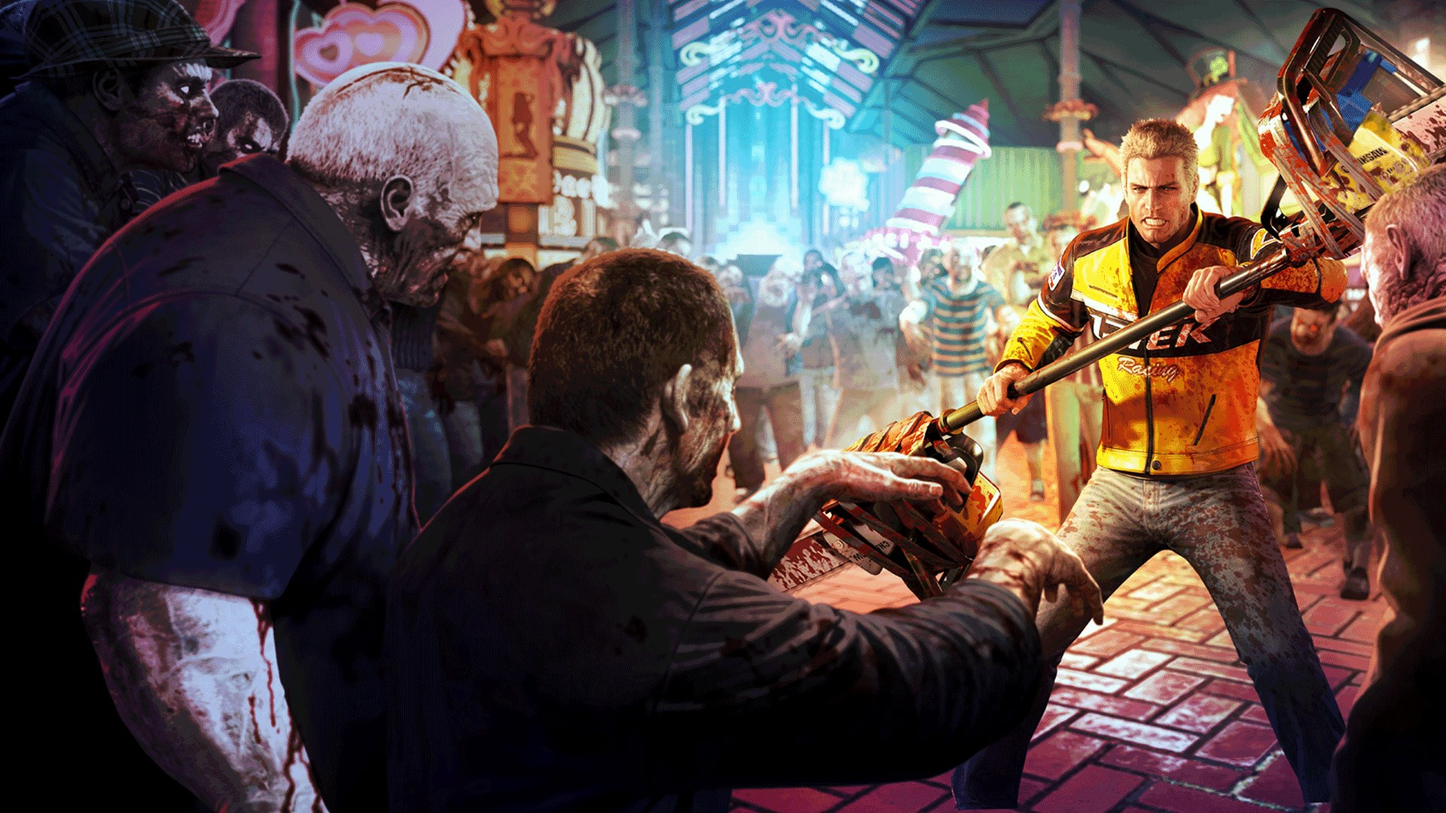
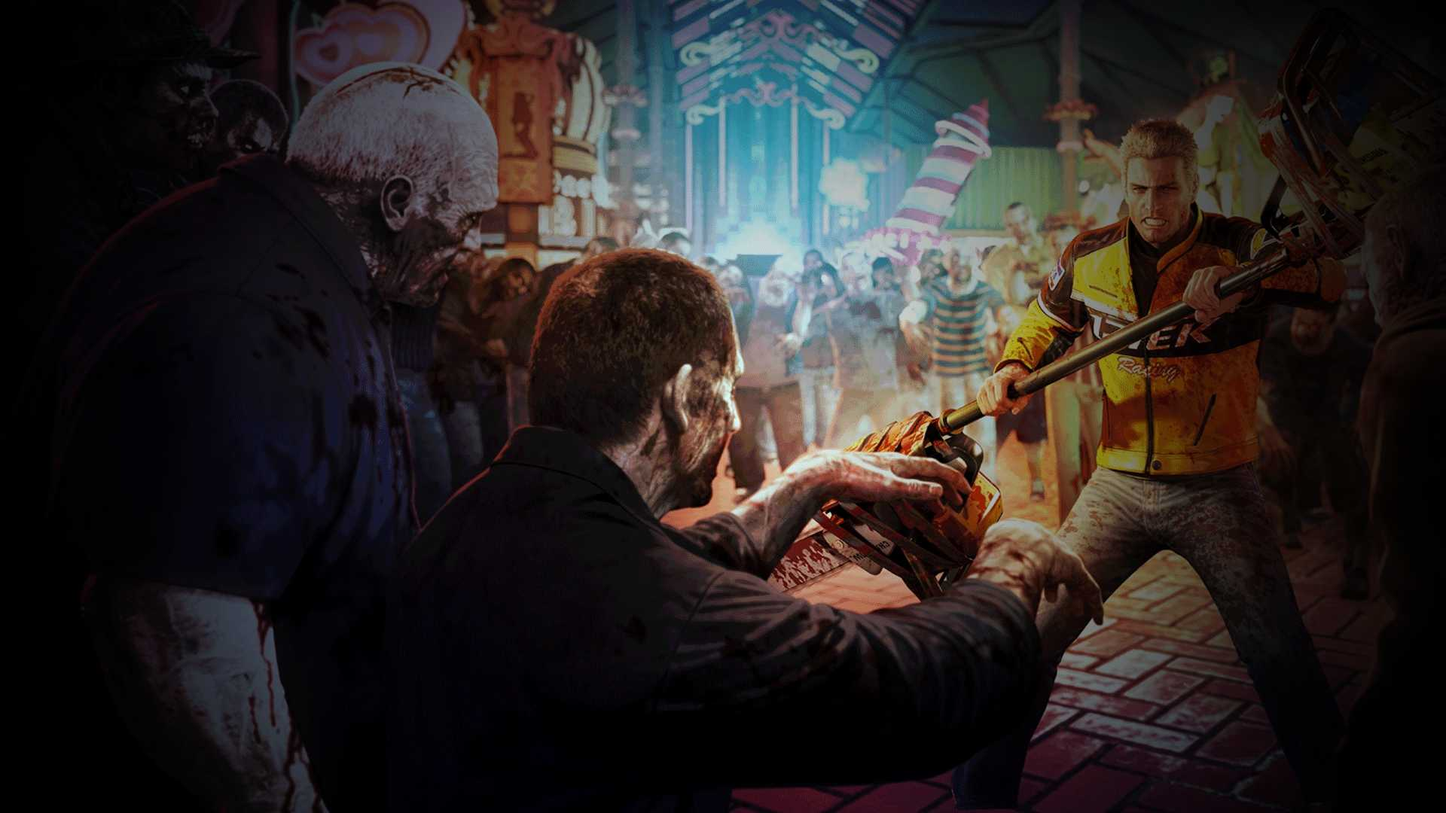
updating bg, reducing width of wrapper and updating font sizes

diff --git a/src/style/index.css b/src/style/index.css
@@ -1,12 +1,7 @@
 html, body {
 	height: 100%;
 	width: 100%;
-	background: #202020;
-}
-
-body {
-	background: url('./../assets/bg.jpg');
-	background-size: cover;
+	background: #000;
 }
 
 @font-face {
@@ -29,11 +24,23 @@ body {
 	box-sizing: border-box;
 }
 
+.bg {
+	position: fixed;
+	top: 0;
+	left: 0;
+	z-index: 0;
+	background: url('./../assets/bg.jpg');
+	background-size: cover;
+	width: 100%;
+	height: 100%;
+}
+
 #app {
 	height: 100%;
-	max-width: 1440px;
+	max-width: 1080px;
 	width: 100%;
 	margin: 0 auto;
+	position: relative;
 }
 
 .wrapper {
@@ -49,11 +56,11 @@ li {
 }
 
 .items {
-	flex-basis: 15%;
+	flex-basis: 20%;
 }
 
 .cards {
-	flex-basis: 85%;
+	flex-basis: 80%;
 }
 
 .card-images {
@@ -81,7 +88,7 @@ li {
 	text-align: center;
 	width: 100%;
 	font-weight: bold;
-	font-size: 46px;
+	font-size: 34px;
 	text-transform: uppercase;
 	font-family: 'evogriaregular', sans-serif;
 	letter-spacing: 0px;
@@ -104,8 +111,10 @@ li {
 	border: solid 2px white;
 	text-align: center;
 	padding: 3px 20px;
-	font-size: 18px;
+	font-size: 14px;
 	font-weight: bold;
+	letter-spacing: -1px;
+	word-spacing: -1px;
 }
 
 .search {

diff --git a/src/components/app.js b/src/components/app.js
@@ -1,4 +1,4 @@
-import { Component } from 'preact';
+import { Component, Fragment } from 'preact';
 
 import Header from './header';
 
@@ -53,22 +53,25 @@ export default class App extends Component {
 
 	render() {
 		return (
-			<div id="app" className="">
-				<Header />
-				<div className={'wrapper'}>
-					<Items 
-						data={this.state.config.items} 
-						toggle={this.toggleItem} 
-						clear={this.clearSelectedItems}
-						selected={this.state.selected} 
-					/>
-					<Cards 
-						data={this.state.config.combos}
-						toggleCard={this.toggleItemsOnCard}
-						selected={this.state.selected}
+			<Fragment>
+				<div className={'bg'}></div>
+				<div id="app" className="">
+					<Header />
+					<div className={'wrapper'}>
+						<Items 
+							data={this.state.config.items} 
+							toggle={this.toggleItem} 
+							clear={this.clearSelectedItems}
+							selected={this.state.selected} 
 						/>
+						<Cards 
+							data={this.state.config.combos}
+							toggleCard={this.toggleItemsOnCard}
+							selected={this.state.selected}
+							/>
+					</div>
 				</div>
-			</div>
+			</Fragment>
 		);
 	}
 }
